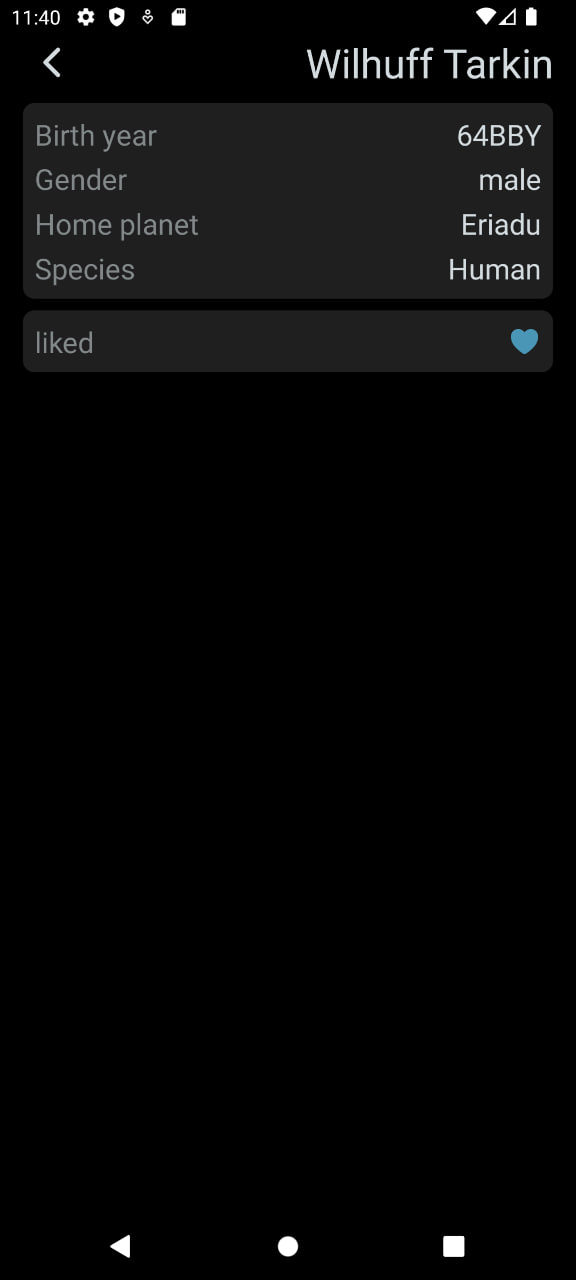
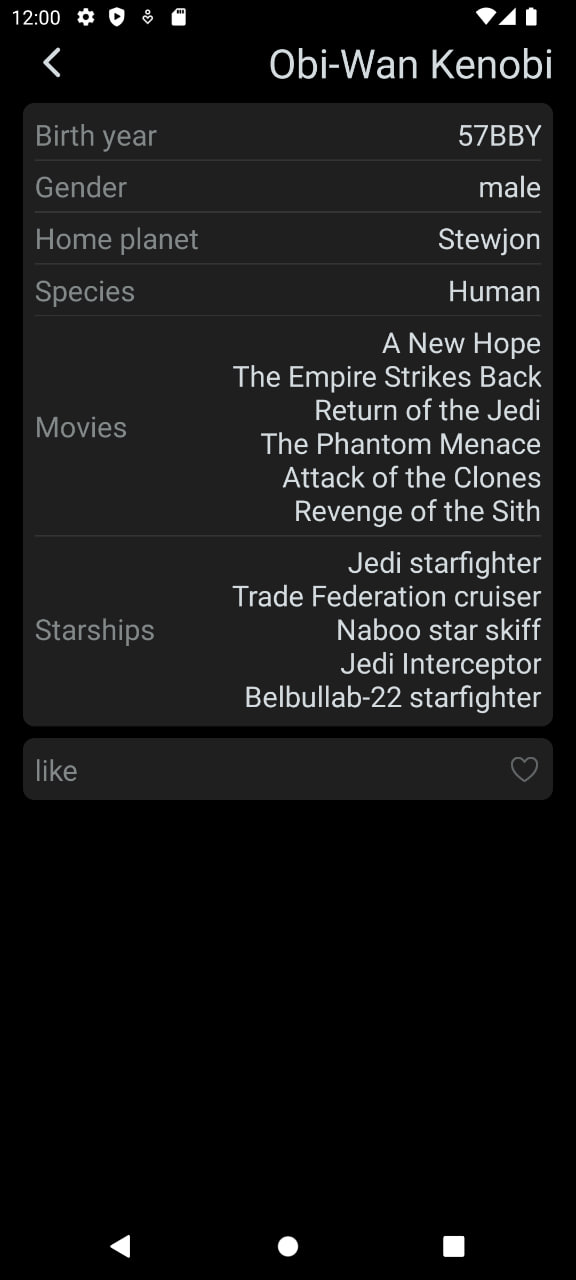
character screen more info

diff --git a/screens/CharacterInfoScreen.tsx b/screens/CharacterInfoScreen.tsx
@@ -1,5 +1,6 @@
 import {
   Dimensions,
+  FlatList,
   SafeAreaView,
   StyleSheet,
   Text,
@@ -35,23 +36,47 @@ export default function CharacterInfoScreen({navigation, route}: any) {
       title: 'Species',
       value: character.info.species.map((i: any) => i.name).join(',') || '???',
     },
+    {
+      title: 'Movies',
+      value: character.info.films.map((i: any) => i.title).join('\n') || '???',
+    },
+    {
+      title: 'Starships',
+      value:
+        character.info.starships.map((i: any) => i.name).join('\n') || '???',
+    },
   ];
+
+  function RenderCharacterInfo({item}: any) {
+    return (
+      <View style={styles.characterInfoRow}>
+        <Text style={[styles.infoTitle, {color: colors[themeColor].grey}]}>
+          {item.title}
+        </Text>
+        <Text style={[styles.infoValue, {color: colors[themeColor].main}]}>
+          {item.value}
+        </Text>
+      </View>
+    );
+  }
 
   return (
     <SafeAreaView
       style={[styles.container, {backgroundColor: colors[themeColor].bg}]}>
       <Header title={character.name} action="back" />
       <View style={[styles.card, {backgroundColor: colors[themeColor].card}]}>
-        {info.map((item: any, index: number) => (
-          <View key={index} style={styles.characterInfoRow}>
-            <Text style={[styles.infoTitle, {color: colors[themeColor].grey}]}>
-              {item.title}
-            </Text>
-            <Text style={[styles.infoValue, {color: colors[themeColor].main}]}>
-              {item.value}
-            </Text>
-          </View>
-        ))}
+        <FlatList
+          data={info}
+          renderItem={RenderCharacterInfo}
+          ItemSeparatorComponent={() => (
+            <View
+              style={[
+                styles.line,
+                {backgroundColor: colors[themeColor].comment},
+              ]}
+            />
+          )}
+        />
       </View>
       <LikeBlock character={character} />
     </SafeAreaView>
@@ -82,5 +107,11 @@ const styles = StyleSheet.create({
     width: '100%',
   },
   infoTitle: {fontSize: width * 0.05},
-  infoValue: {fontSize: width * 0.05},
+  infoValue: {fontSize: width * 0.05, textAlign: 'right'},
+  line: {
+    width: '100%',
+    height: 1,
+    marginVertical: width * 0.01,
+    opacity: 0.3,
+  },
 });

diff --git a/functions/actions.ts b/functions/actions.ts
@@ -16,9 +16,28 @@ export async function GetDataRequest(url?: StarWarsData['next']) {
         speciesResponses.map(response => response.json()),
       );
 
+      const filmsResponses = await Promise.all(
+        character.films.map((url: any) => fetch(url)),
+      );
+      const filmsData = await Promise.all(
+        filmsResponses.map(response => response.json()),
+      );
+
+      const starshipsResponses = await Promise.all(
+        character.starships.map((url: any) => fetch(url)),
+      );
+      const starshipsData = await Promise.all(
+        starshipsResponses.map(response => response.json()),
+      );
+
       return {
         ...character,
-        info: {homeworld: planetData, species: speciesData},
+        info: {
+          homeworld: planetData,
+          species: speciesData,
+          films: filmsData,
+          starships: starshipsData,
+        },
       };
     }),
   );

diff --git a/README.md b/README.md
@@ -1,5 +1,13 @@
 # Start Wars Characters text app
 
+Implemented:
+
+- list of characters
+- list of liked characters
+- character detailed info
+- theme change
+- save liked characters to storage
+
 ![example](./screenshots/page1.jpg)
 ![example](./screenshots/page2.jpg)
 ![example](./screenshots/characterInfo.jpg)
